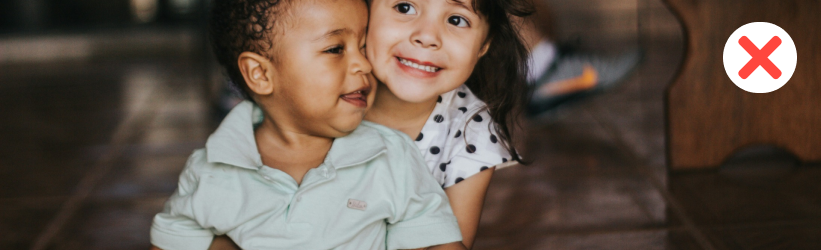
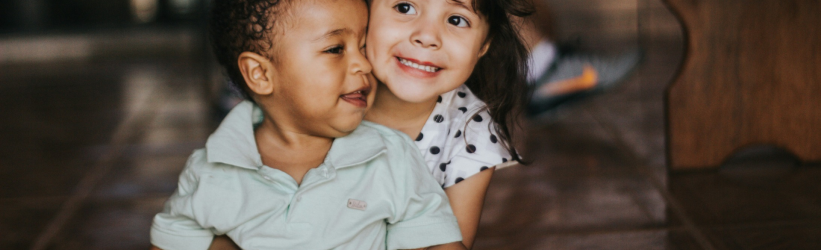
adding the swiper slider in program

Changed region(s): [[0.8831, 0.084, 0.9744, 0.392]]

diff --git a/src/Components/HeroSection.jsx b/src/Components/HeroSection.jsx
@@ -1,104 +1,114 @@
 import React from "react";
 import { useState } from "react";
 import HeroPng from "../assets/images/letsread.png";
+import HeroImgMobile from "../assets/images/hero-img-mobile.png";
 // import Enquire from "../pages/Enquire";
 import EnquirePng from "../assets/images/Enquire.png";
-import { FontAwesomeIcon } from "@fortawesome/react-fontawesome";
-import { faCircleXmark } from "@fortawesome/free-regular-svg-icons";
-const HeroSection = () => {
-  const [modal, setModal] = useState(false);
 
-  const toggleModal = () => {
-    setModal(!modal);
+import Modal from "@mui/material/Modal";
+
+import { RxCross2 } from "react-icons/rx";
+const HeroSection = () => {
+  const [modalOpen, setModalOpen] = useState(false);
+
+  const toggleModalOpen = () => {
+    setModalOpen(!modalOpen);
   };
 
   return (
-    <div className="w-full flex justify-center items-center flex-col relative">
-      <img src={HeroPng} alt="img" className="w-full" />
+    <div className="w-full flex justify-center items-center flex-col relative md:mt-0 mt-[60px]">
+      <img src={HeroPng} alt="img" className="w-full md:flex hidden" />
+      <img src={HeroImgMobile} alt="img" className="w-full md:hidden" />
 
-      <div className="absolute top-[260px] left-[200px]">
-        <h1 className="text-white text-5xl font-bold">We Prepare To Ignite </h1>
-        <h1 className="text-white text-5xl font-bold mt-4">
+      <div className="absolute md:px-0 px-4 md:top-[260px] top-[50px] md:left-[200px]">
+        <h1 className="text-white md:text-5xl text-3xl font-bold">
+          We Prepare To Ignite{" "}
+        </h1>
+        <h1 className="text-white md:text-5xl text-3xl font-bold md:mt-4">
           The Joy of <span className="text-yellow ">Reading</span>
         </h1>
-        <p className="text-white text-lg w-7/12 mt-5">
+        <p className="text-white md:text-lg text-sm md:w-7/12 mt-5">
           Reading kits offer families with young children the tools and
           information to help inspire a. passion for reading in their homes.
         </p>
-        <p className="text-white text-2xl w-7/12 mt-5">
+        <p className="text-white md:text-2xl text-sm md:w-7/12 mt-5">
           555+ Schools &gt;&gt; 500+ Teachers &gt;&gt; 5000+ Childrens{" "}
         </p>
         <button
-          onClick={toggleModal}
+          onClick={toggleModalOpen}
           className="bg-yellow px-4 py-2 mt-4  rounded-lg font-bold"
         >
           Enquire Now
         </button>
       </div>
-      {modal && (
-        <div className="flex justify-center content-center absolute rounded-lg w-full h-full bg-[#ebebeb8a]">
-          <div className="w-5/12 h-[880px] bg-white relative top-[70px]  rounded-2xl overflow-hidden shadow-2xl">
-            <button className="absolute  right-2 top-1">
-              <FontAwesomeIcon
-                icon={faCircleXmark}
-                className="w-[30px] h-[30px] text-white bg-pink"
-                onClick={()=>setModal(!modal)}
-              />
+      <Modal
+        open={modalOpen}
+        onClose={toggleModalOpen}
+        aria-labelledby="modal-modal-title"
+        aria-describedby="modal-modal-description"
+      >
+        <div className="flex justify-center overflow-scroll content-center absolute rounded-lg w-full h-full bg-[#ebebeb8a]">
+          <div className="md:w-5/12 w-10/12 flex flex-col items-center md:h-[880px] h-max md:pb-0 pb-4  bg-white relative top-[70px]  rounded-2xl overflow-hidden shadow-2xl">
+            <button
+              className="absolute  right-2 top-1 bg-white rounded-full shadow-xl"
+              onClick={() => setModalOpen(!modalOpen)}
+            >
+              <RxCross2 className="text-3xl text-pink font-bold" />
             </button>
             <img
               src={EnquirePng}
               alt="aboutimg"
-              className="h-[300px] object-cover object-center overflow-hidden  "
+              className="md:h-[300px] h-[150px] w-full object-cover object-center overflow-hidden  "
             />
-            <div className="w-11/12 py-4   bg-pink rounded-3xl absolute top-[250px] mx-6">
-              <h1 className="text-center  text-[26px] font-bold text-white">
+            <div className="w-11/12 py-4 md:px-0 px-3   bg-pink rounded-3xl md:absolute relative mt-[-60px] md:top-[250px] md:mx-6">
+              <h1 className="text-center  md:text-[26px] text-base font-bold text-white">
                 {" "}
                 Transformative Education From The Star
               </h1>
-              <p className="text-center text-white w-6/12 mx-auto">
+              <p className="text-center text-white md:w-6/12 w-full md:text-base text-xs mx-auto">
                 Please Complete The form below, and we will get back to you
                 within 24 hours.
               </p>
             </div>
-            <form className="flex flex-col gap-[14px] justify-center items-center mt-20">
+            <form className="w-full  md:px-0 px-3 flex flex-col gap-[14px] justify-center items-center md:mt-20 mt-4">
               <input
                 type="text"
                 placeholder="Saif"
-                className="w-8/12 py-2 px-4 rounded-xl border-[1px] border-[#AEAEAE] text-black bg-purple-800"
+                className="md:w-8/12 w-full py-2 px-4 rounded-xl border-[1px] border-[#AEAEAE] text-black bg-purple-800"
               />
               <input
                 type="text"
                 placeholder="Enter Your Email:"
-                className="w-8/12 py-2 px-4 rounded-xl border-[1px] border-[#AEAEAE] text-black bg-purple-800"
+                className="md:w-8/12 w-full py-2 px-4 rounded-xl border-[1px] border-[#AEAEAE] text-black bg-purple-800"
               />
               <input
                 type="text"
                 placeholder="Enter Your Mobile Number:"
-                className="w-8/12 py-2 px-4 rounded-xl border-[1px] border-[#AEAEAE] text-black bg-purple-800"
+                className="md:w-8/12 w-full py-2 px-4 rounded-xl border-[1px] border-[#AEAEAE] text-black bg-purple-800"
               />
               <input
                 type="text"
                 placeholder="Select Your State:"
-                className="w-8/12 py-2 px-4 rounded-xl border-[1px] border-[#AEAEAE] text-black bg-purple-800"
+                className="md:w-8/12 w-full py-2 px-4 rounded-xl border-[1px] border-[#AEAEAE] text-black bg-purple-800"
               />
               <input
                 type="text"
                 placeholder="Enter Your Child Name:"
-                className="w-8/12 py-2 px-4 rounded-xl border-[1px] border-[#AEAEAE] text-black bg-purple-800"
+                className="md:w-8/12 w-full py-2 px-4 rounded-xl border-[1px] border-[#AEAEAE] text-black bg-purple-800"
               />
               <textarea
                 id="message"
                 rows="4"
-                className="w-8/12 py-2 px-4 rounded-xl border-[1px] border-[#AEAEAE] text-black bg-purple-800 resize-none"
+                className="md:w-8/12 w-full py-2 px-4 rounded-xl border-[1px] border-[#AEAEAE] text-black bg-purple-800 resize-none"
                 placeholder="Enter Your Message"
               ></textarea>
-              <button className="bg-pink text-white w-8/12 py-2 mt-4  rounded-2xl font-bold">
+              <button className="bg-pink text-white md:w-8/12 w-full py-2 mt-4  rounded-2xl font-bold">
                 Enquire Now
               </button>
             </form>
           </div>
         </div>
-      )}
+      </Modal>
     </div>
   );
 };

diff --git a/src/Components/Programs.jsx b/src/Components/Programs.jsx
@@ -8,22 +8,55 @@ import programImg2 from "../assets/images/program-img-2.png";
 import programImg3 from "../assets/images/program-img-3.png";
 import programImg4 from "../assets/images/program-img-4.png";
 
+// Import Swiper React components
+import { Swiper, SwiperSlide } from "swiper/react";
+
+// Import Swiper styles
+import "swiper/css";
+import "swiper/css/pagination";
+import "swiper/css/navigation";
+
+// Import required Swiper modules
+import { Autoplay, Pagination, Navigation } from "swiper/modules";
+
 const Programs = () => {
+  const programData = [
+    {
+      img: programImg1,
+      levelHead: "Level 0 Phonic Kit",
+      desc: "Introduce your child to the world of phonics with our Level 0 Phonics Kit. Packed with engaging activities, it&apos;s the perfect start to their reading journey.",
+    },
+    {
+      img: programImg2,
+      levelHead: "Level 1 Phonic Kit",
+      desc: "Empower LKG learners with Level 1 Phonics Kit. Explore engaging activities to excel in phonics and literacy effortlessly.",
+    },
+    {
+      img: programImg3,
+      levelHead: "Level 2 Phonic Mastery Kit",
+      desc: "Elevate Phonics Proficiency: Let's Read Level 2! Master blends, digraphs, and more with engaging activities.",
+    },
+    {
+      img: programImg4,
+      levelHead: "Level 3 Adv. Phonic Kit",
+      desc: "Elevate Reading Confidence: Let's Read Level 3! Master advanced phonics and boost reading fluency.",
+    }
+  ];
   return (
-    <div className="flex justify-center items-center w-full">
+    <div className="flex justify-center items-center w-full md:mt-0 mt-4">
       <div className="relative w-auto">
-        <h1 className="text-center text-4xl md:text-5xl font-bold leading-none m-0 p-0">
+        <h1 className="text-center text-3xl md:text-5xl font-bold leading-none m-0 p-0">
           Our Programs
         </h1>
         <div className="flex justify-center items-center relative w-full m-0 p-0">
-          <div className="relative top-[-10px] right-[-10px] h-[3px] w-[300px] bg-pink"></div>
+          <div className="relative top-[-10px] right-[-10px] h-[3px] md:w-[300px] w-[200px] bg-pink"></div>
           <img
             src={headerDesign}
             className="relative h-[50px] w-[50px]"
             alt="header design"
           />
         </div>
-        <p className="mt-12 text-center font-semibold text-2xl md:text-4xl">
+        <p className="md:mt-12 mt-3 text-center font-semibold text-xl md:text-4xl">
           Your Ally for Early Academic Success
         </p>
         <div
@@ -31,28 +64,65 @@ const Programs = () => {
           style={{ backgroundImage: `url(${Frame})` }}
         >
           <div className="relative z-10 flex flex-col items-center justify-center">
-            <div className="flex items-start gap-8 md:gap-12 lg:gap-[30px] mx-6 md:mx-12 lg:mx-28">
-              <ProgramCard
-                image={programImg1}
-                levelHead="Level 0 Phonic Kit"
-                desc="Introduce your child to the world of phonics with our Level 0 Phonics Kit. Packed with engaging activities, it's the perfect start to their reading journey."
-              />
-              <ProgramCard
-                image={programImg2}
-                levelHead="Level 1 Phonic Kit"
-                desc="Empower LKG learners with Level 1 Phonics Kit. Explore engaging activities to excel in phonics and literacy effortlessly."
-              />
-              <ProgramCard
-                image={programImg3}
-                levelHead="Level 2 Phonic Mastery Kit"
-                desc="Elevate Phonics Proficiency: Let's Read Level 2! Master blends, digraphs, and more with engaging activities."
-              />
-              <ProgramCard
-                image={programImg4}
-                levelHead="Level 3 Adv. Phonic Kit"
-                desc="Elevate Reading Confidence: Let's Read Level 3! Master advanced phonics and boost reading fluency."
-              />
+            {/* For larger screens (md and above) */}
+            <div className="md:flex hidden items-start gap-8 md:gap-12 lg:gap-[30px] mx-6 md:mx-12 lg:mx-28">
+              {programData &&
+                programData.map((item, index) => (
+                  <ProgramCard
+                    key={index}
+                    image={item.img}
+                    levelHead={item.levelHead}
+                    desc={item.desc}
+                  />
+                ))}
             </div>
+
+            {/* Swiper for smaller screens */}
+            <div className="flex md:hidden w-full">
+              <Swiper
+                slidesPerView={1}
+                spaceBetween={20}
+                loop={true}
+                // autoplay={{
+                //   delay: 2500,
+                //   disableOnInteraction: false,
+                // }}
+                pagination={{
+                  clickable: true,
+                  className: "swiper-pagination-top-spacing",
+                }}
+                navigation={true}
+                modules={[Pagination, Navigation]}
+                breakpoints={{
+                  640: {
+                    slidesPerView: 1,
+                    spaceBetween: 20,
+                  },
+                  768: {
+                    slidesPerView: 2,
+                    spaceBetween: 20,
+                  },
+                  1024: {
+                    slidesPerView: 3,
+                    spaceBetween: 30,
+                  },
+                }}
+                className="mySwiper2"
+              >
+                {programData &&
+                  programData.map((item, index) => (
+                    <SwiperSlide key={index}>
+                      <ProgramCard
+                        key={index}
+                        image={item.img}
+                        levelHead={item.levelHead}
+                        desc={item.desc}
+                      />
+                    </SwiperSlide>
+                  ))}
+              </Swiper>
+            </div>
+
             <div className="box-design h-[170px] w-[170px] bg-[rgba(255,234,127,255)] rounded-3xl rotate-45 right-[-50%] top-[-100px] relative -z-10"></div>
             <button className="relative top-[-100px] bg-darkPurple text-white font-bold text-lg px-6 py-1 rounded-lg">
               Explore Our Program

diff --git a/src/Components/Header.jsx b/src/Components/Header.jsx
@@ -1,5 +1,5 @@
 import React, { useState } from "react";
-import { NavLink, useLocation, useNavigate } from "react-router-dom";
+import { Link, NavLink, useLocation, useNavigate } from "react-router-dom";
 import Drawer from "@mui/material/Drawer";
 
 import LetsReadImg from "../assets/images/image 2.png";
@@ -13,6 +13,8 @@ import { IoLibraryOutline } from "react-icons/io5";
 import { MdLibraryAddCheck } from "react-icons/md";
 import { HiOutlineSquaresPlus } from "react-icons/hi2";
 import { MdOutlineQuestionAnswer } from "react-icons/md";
+import { FaEnvelope } from "react-icons/fa";
+
 const Header = () => {
   const location = useLocation();
   const navigate = useNavigate();
@@ -103,7 +105,7 @@ const Header = () => {
           </div>
 
           <Drawer anchor="right" open={open} onClose={toggleDrawer(false)}>
-            <div className="w-[290px] bg-white flex flex-col">
+            <div className="w-[290px] min-h-[100vh] bg-white flex flex-col relative">
               <div className="w-full flex justify-between item-center px-2 py-3 shadow-lg">
                 <img
                   src={LetsReadImg}
@@ -200,6 +202,38 @@ const Header = () => {
                   >
                     <MdOutlineQuestionAnswer className="text-3xl" />
                     <p className="text-xl">Faq</p>
+                  </div>
+                </div>
+              </div>
+
+              <div className="w-full relative bottom-0 flex items-center justify-center">
+                <div className="custom-shape-divider-bottom-1727976807  mt-5 left-0 w-full overflow-hidden rotate-180">
+                  <svg
+                    data-name="Layer 1"
+                    xmlns="http://www.w3.org/2000/svg"
+                    viewBox="0 0 1200 120"
+                    preserveAspectRatio="none"
+                    className="relative block  h-[120px]"
+                    style={{ width: "calc(100% + 1.3px)" }}
+                  >
+                    <path
+                      d="M0,0V7.23C0,65.52,268.63,112.77,600,112.77S1200,65.52,1200,7.23V0Z"
+                      className="shape-fill  fill-[#7E57C2]"
+                    ></path>
+                  </svg>
+                </div>
+                <div className="absolute bottom-0">
+                  <div className="flex items-center gap-[20px]">
+                    <FiPhoneCall className="text-white text-2xl" />
+                    <Link className="text-white text-lg">
+                      Phone: +918520824374
+                    </Link>
+                  </div>
+                  <div className="flex items-center gap-[20px] my-1">
+                    <FaEnvelope className="text-white text-2xl" />
+                    <Link className="text-white text-lg">
+                      sales@letsreadindia.in
+                    </Link>
                   </div>
                 </div>
               </div>

diff --git a/src/Components/ProgramCard.jsx b/src/Components/ProgramCard.jsx
@@ -2,14 +2,18 @@ import React from "react";
 
 const ProgramCard = ({ image, levelHead, desc }) => {
   return (
-    <div className="w-3/12 flex items-center justify-center">
-      <div className="rounded-2xl shadow bg-white flex flex-col justify-between items-center w-full h-[500px] pb-5">
-        <div className="w-full py-2 bg-pink rounded-tl-xl rounded-tr-xl">
-          <h1 className="text-center font-bold text-white">{levelHead}</h1>
+    <div className="md:w-3/12 w-full flex items-center justify-center overflow-hidden">
+      <div className="rounded-2xl shadow-lg bg-white flex flex-col justify-between items-center w-full h-full pb-5">
+        <div className="w-full py-3 bg-pink rounded-tl-xl rounded-tr-xl">
+          <h1 className="text-center font-bold text-white text-lg">{levelHead}</h1>
         </div>
-        <img src={image} alt="image-prog" className="mt-1 w-full h-[250px]" />
-        <p className="mx-2 mt-4 flex-grow">{desc}</p>
-        <button className="mx-16 mt-6 px-3 bg-pink rounded-lg text-white py-2">
+        <img
+          src={image}
+          alt={levelHead}
+          className="mt-2 md:w-full w-full h-[300px] object-contain md:h-[250px]"
+        />
+        <p className="mx-4 mt-4 text-center text-gray-700">{desc}</p>
+        <button className="mx-16 mt-6 px-6 py-2 bg-pink rounded-lg text-white font-semibold hover:bg-pink-dark transition-all">
           Read More
         </button>
       </div>
